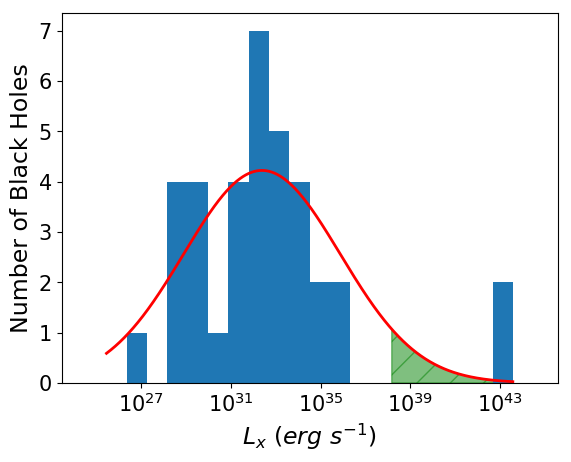
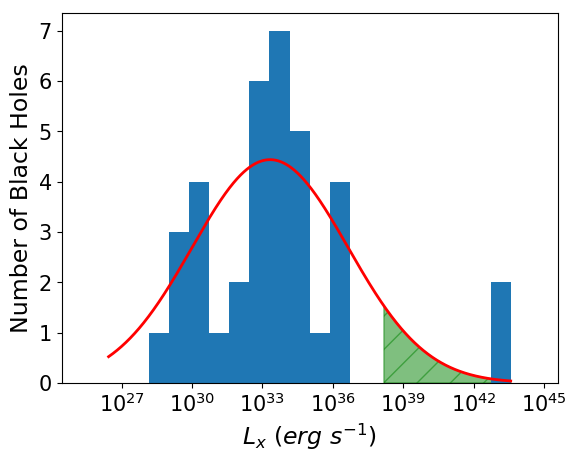
Modified Black Hole Luminosity text and equations; uploaded modified L_x histogram and lognormal plot.

diff --git a/paper.tex b/paper.tex
@@ -223,6 +223,7 @@ where $M_{tot}$ is the total dark matter mass.
 At each iteration in the code, $r_h$ is updated according to the stellar mass and Equations \ref{re} and \ref{sig}.  The core radius, $r_c$, is recalculated only if an orbiting black hole enters within $r_c$.  The work done by diffusion, as described in Section \ref{psd} is calculated, the total potential energy and dynamical friction are updated, and $r_c$ is solved for from Equation 8 in Stone-Ostriker based on conservation of energy.
 
 \subsubsection{Phase-space diffusion} \label{psd}
+THIS SECTION TAKEN VERBATIM FROM \citet{2017MNRAS.467.4180S}, SECTION E1.  NEED TO MODIFY.
 Weak encounters with background stars will let the SMBHs diffuse through phase space while they are orbiting within the gravitational potential of the galaxy. The diffusion can be expressed as change in velocity of an SMBH by $\Delta \vec{v}$ per unit time. We can split this change into a component along the direction of motion of the SMBH, and one perpendicular to that. Following \citet{2008gady.book.....B}, the diffusion coefficients can be expressed as 
 \begin{eqnarray}\label{eq:df}
 D[\Delta v_\parallel] & = & -\frac{4\pi G^2\rho(r)M_\bullet\ln\Lambda}{\sigma^2}f(\chi),\\
@@ -385,15 +386,15 @@ where $m_p$ is the proton mass.
 
 The net black hole mass accretion rate is approximated by \citet{2018MNRAS.476.1412I} and \citet{2019MNRAS.486.5377I}:
 \begin{equation}
-    \dot{M}_{acc} = \epsilon\frac{4{\pi}G^2M^2\rho}{(C_s^2+v^2)^{3/2}} \text{  M}_\odot \text{ Myr}^{-1},
+    \dot{M}_{acc} = f\frac{4{\pi}G^2M^2\rho}{(C_s^2+v^2)^{3/2}} \text{  M}_\odot \text{ Myr}^{-1},
 \end{equation}
-where $\epsilon$ is the radiative efficiency as calculated in Equation 13 of \citet{2019MNRAS.486.5377I}, M is black hole mass, G is the gravitational constant, and v is the black hole velocity.
+where f is a factor giving the decline in accretion, interior to the BH radius due to convective (i.e., inefficient) accretion, as calculated \citet{2019MNRAS.486.5377I}, cf. eq 13.  Additionally, $M$ is black hole mass, $G$ is the gravitational constant, and $v$ is the black hole velocity.
 
 Finally, the black hole x-ray luminosity is estimated from:
 \begin{equation}
-    L_x = 0.01\dot{M}_{acc}c^2 \text{  erg s}^{-1}.
+    L_x = \epsilon_{rx}\dot{M}_{acc}c^2 \text{  erg s}^{-1},
 \end{equation}
-
+where the x-ray radiative efficiency ${\epsilon}_{rx}=0.01$, and we are assuming for the low-luminosity sources that $L_B{\sim}L_x$.  For sources having $\dot{M}_B/\dot{M}_{Edd} > 10^{-3}$, we take $L_x=0.1L_{Bol}$.
 The Eddington limit is defined as:
 \begin{equation}
     L_{edd} = 1.26 \times 10^{38} (M/M_{\odot}) \text{  erg s}^{-1}.
